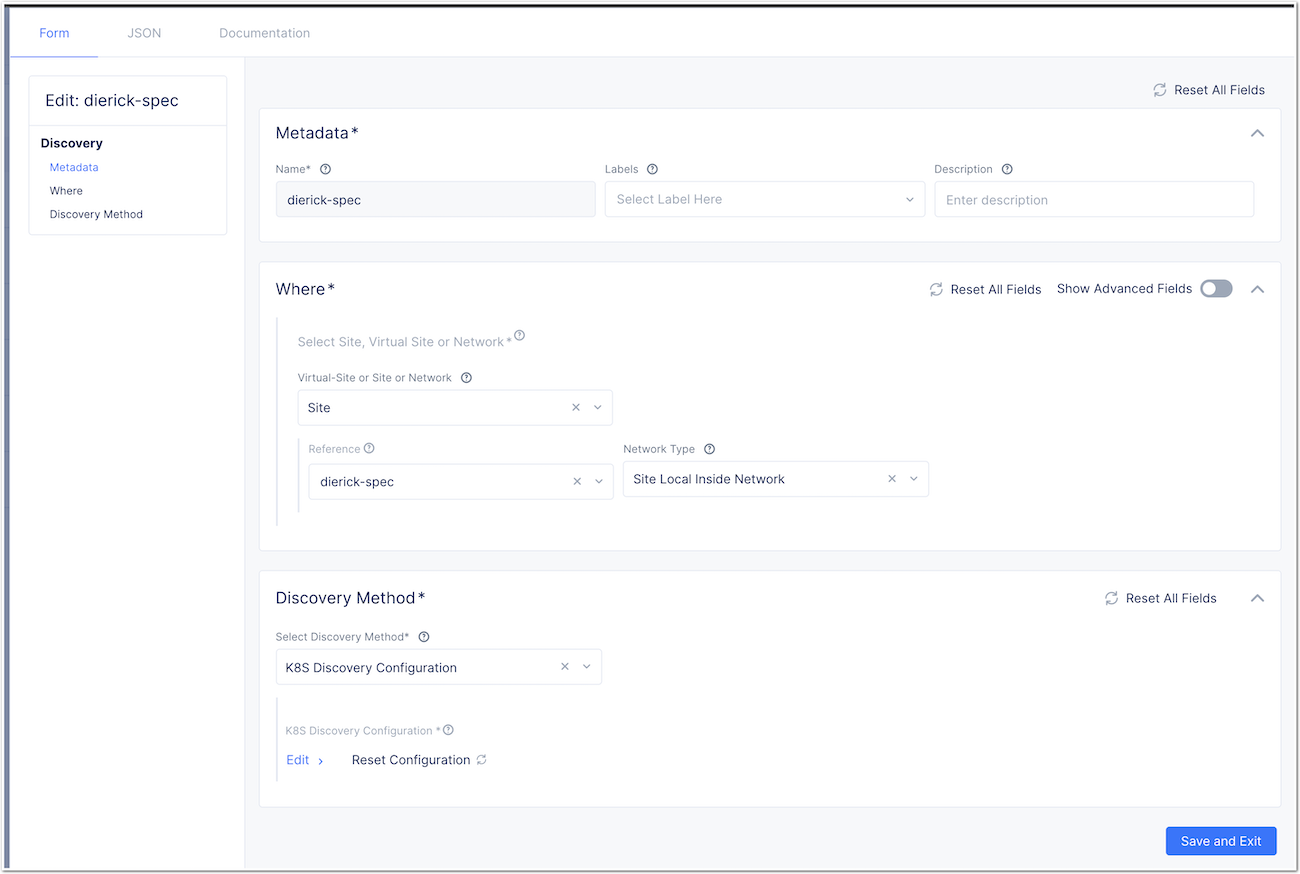
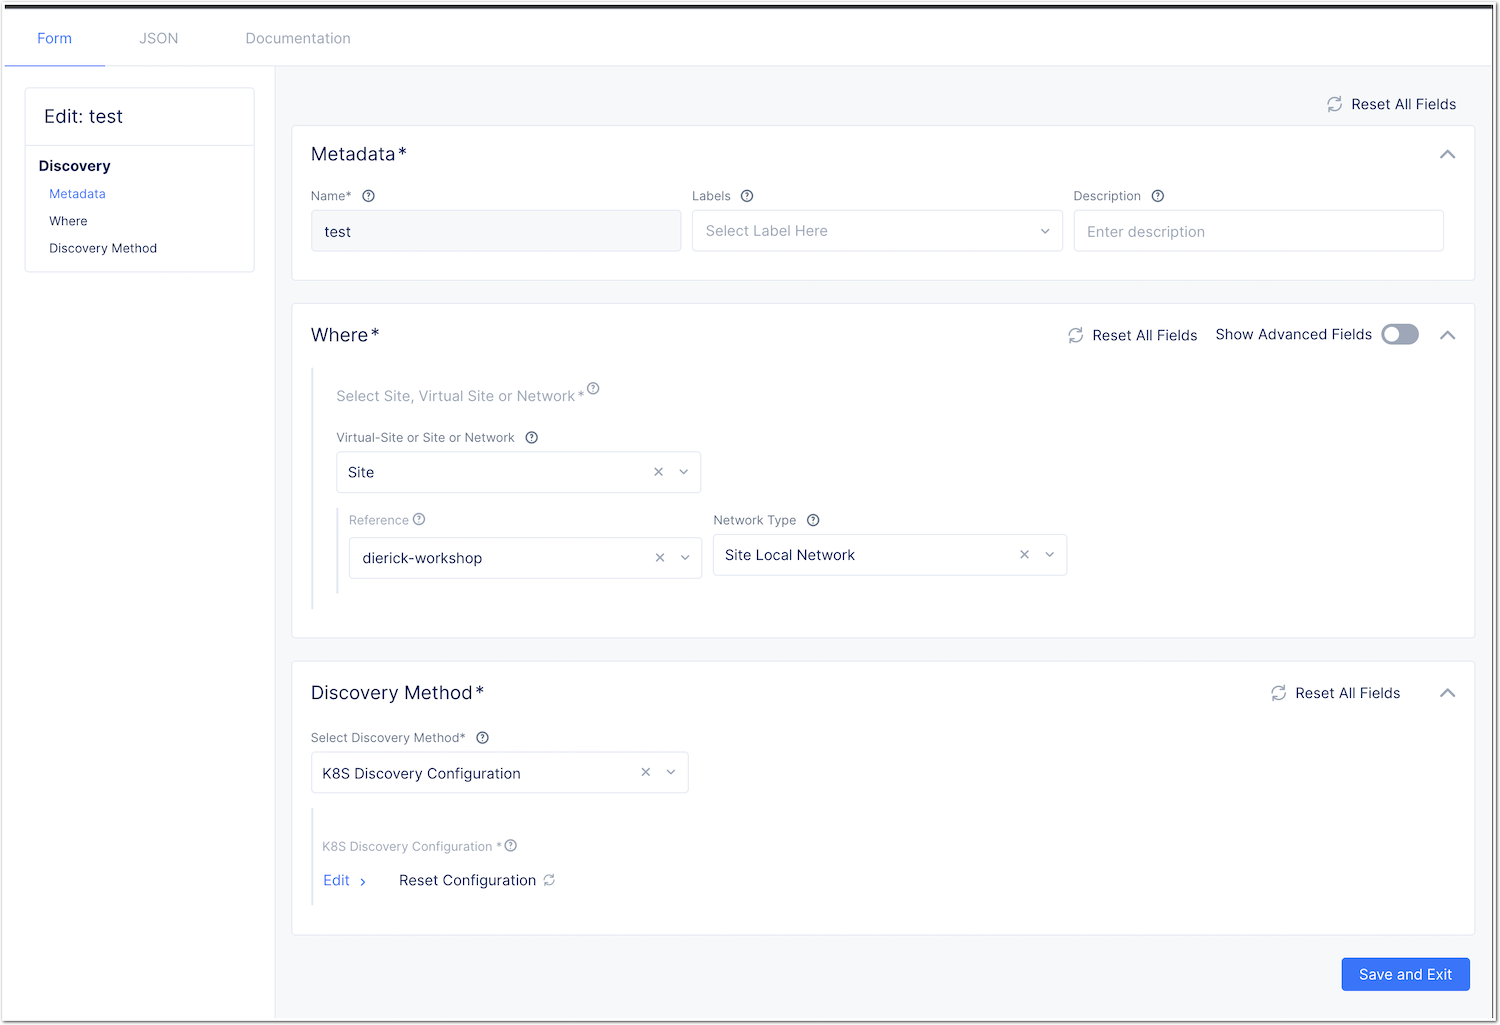
push

diff --git a/docs/class3/module1/lab2/lab2.rst b/docs/class3/module1/lab2/lab2.rst
@@ -131,7 +131,8 @@ Discover the services
 =====================
 
 * Create a service discovery
-  * Select your site, upload your kubeconfig file
+
+  * Select your site, select ``site local inside network`` and upload your kubeconfig file
   * Don't forget to publish full FQDN to VIP
 
   .. image:: ../pictures/lab2/sd.png
